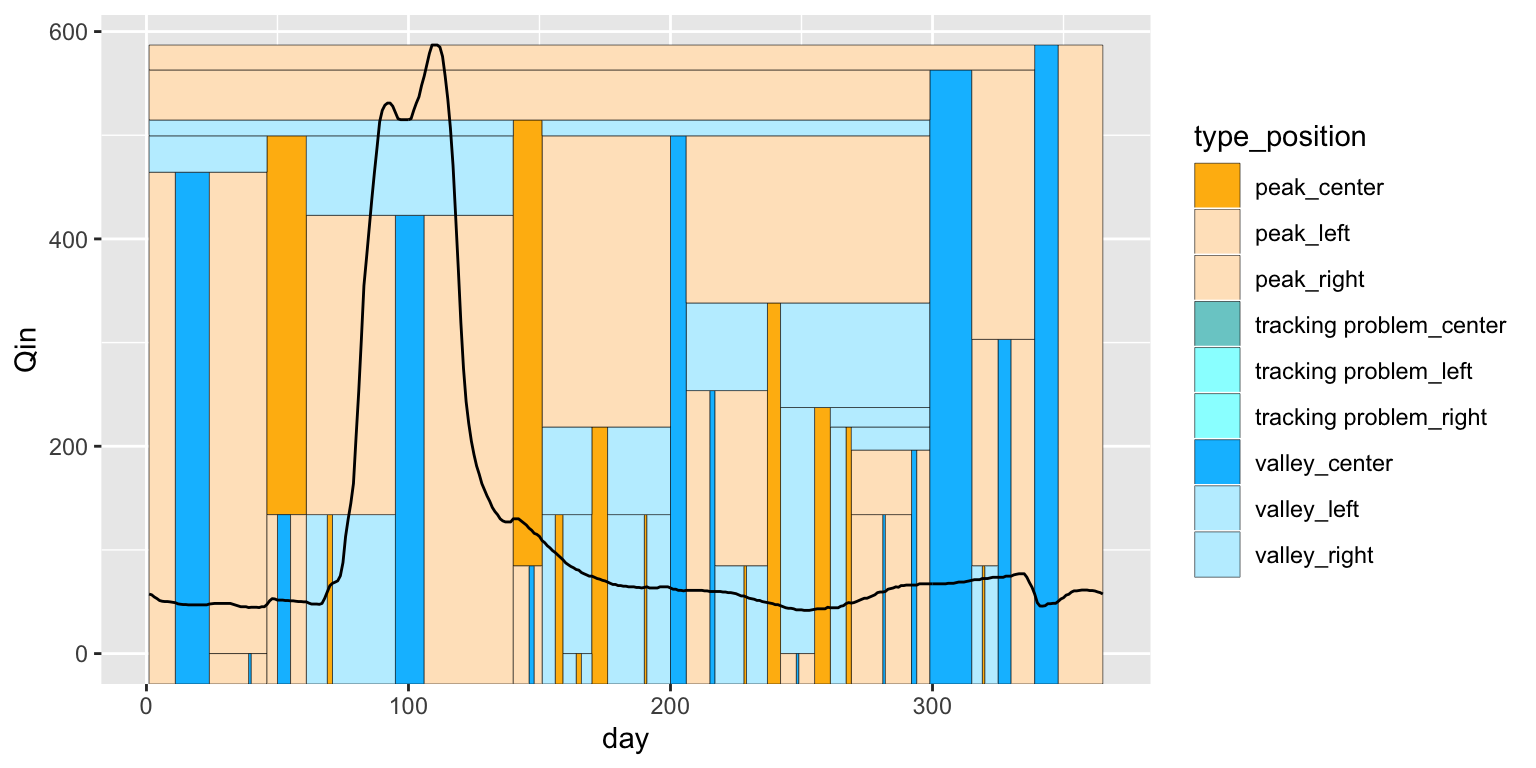
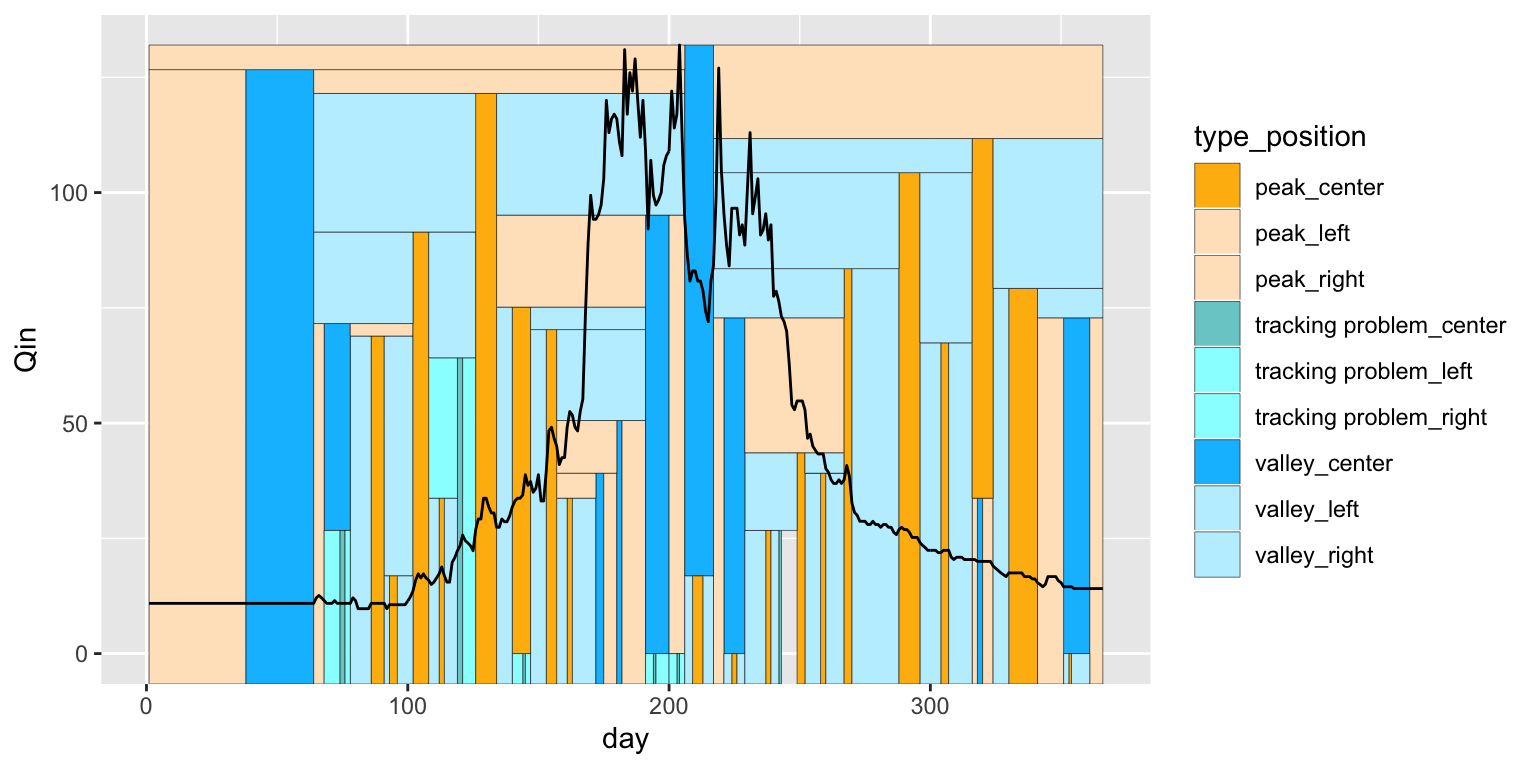
finalize scale space vignette

diff --git a/docs/articles/scale-space.html b/docs/articles/scale-space.html
@@ -103,35 +103,44 @@
 <span id="cb1-3"><a href="#cb1-3"></a><span class="co">#&gt; Загрузка требуемого пакета: ggplot2</span></span>
 <span id="cb1-4"><a href="#cb1-4"></a><span class="co">#&gt; Welcome to grwat package for hydrograph separation and analysis</span></span>
 <span id="cb1-5"><a href="#cb1-5"></a></span>
-<span id="cb1-6"><a href="#cb1-6"></a>tab =<span class="st"> </span><span class="kw"><a href="../reference/read_separation.html">read_separation</a></span>(<span class="st">'/Volumes/Work/_grwat/2018/out/1_Sever/Mezen_Malonisog/AllGrWat.txt'</span>)</span>
-<span id="cb1-7"><a href="#cb1-7"></a>(<span class="dt">ssp =</span> <span class="kw"><a href="../reference/ss_transform.html">ss_transform</a></span>(tab, <span class="dt">year =</span> <span class="dv">1978</span>, <span class="dt">sigma =</span> <span class="dv">365</span>))</span>
+<span id="cb1-6"><a href="#cb1-6"></a>tab =<span class="st"> </span><span class="kw"><a href="../reference/read_separation.html">read_separation</a></span>(<span class="st">'/Volumes/Work/_grwat/2018/in/6_Terek/Baksan/AllGrWat.txt'</span>)</span>
+<span id="cb1-7"><a href="#cb1-7"></a>(<span class="dt">sst =</span> <span class="kw"><a href="../reference/ss_transform.html">ss_transform</a></span>(tab, <span class="dt">year =</span> <span class="dv">2016</span>, <span class="dt">sigma =</span> <span class="dv">365</span>))</span>
 <span id="cb1-8"><a href="#cb1-8"></a><span class="co">#&gt; The viewpoint seems to be close to the start of the chromosome, please check if the data is correct</span></span>
 <span id="cb1-9"><a href="#cb1-9"></a><span class="co">#&gt; 4C-seq scale space data</span></span>
 <span id="cb1-10"><a href="#cb1-10"></a><span class="co">#&gt; Type: Scale4C </span></span>
-<span id="cb1-11"><a href="#cb1-11"></a><span class="co">#&gt; Viewpoint:  1978 : 1 </span></span>
-<span id="cb1-12"><a href="#cb1-12"></a><span class="co">#&gt; Number of total fragments:  365 </span></span>
+<span id="cb1-11"><a href="#cb1-11"></a><span class="co">#&gt; Viewpoint:  2016 : 1 </span></span>
+<span id="cb1-12"><a href="#cb1-12"></a><span class="co">#&gt; Number of total fragments:  366 </span></span>
 <span id="cb1-13"><a href="#cb1-13"></a><span class="co">#&gt; Points of interest:  0 </span></span>
 <span id="cb1-14"><a href="#cb1-14"></a><span class="co">#&gt; Maximum sigma of fingerprint map:  365 </span></span>
-<span id="cb1-15"><a href="#cb1-15"></a><span class="co">#&gt; Number of singularities:  28</span></span></code></pre></div>
+<span id="cb1-15"><a href="#cb1-15"></a><span class="co">#&gt; Number of singularities:  34</span></span></code></pre></div>
 <p><strong>Second</strong>, use <code><a href="../reference/ss_tree.html">grwat::ss_tree()</a></code> to obtain a scale-space tree as a <code>tibble</code> object suited for visualization and analysis:</p>
-<div class="sourceCode" id="cb2"><pre class="sourceCode r"><code class="sourceCode r"><span id="cb2-1"><a href="#cb2-1"></a>(<span class="dt">tree =</span> <span class="kw"><a href="../reference/ss_tree.html">ss_tree</a></span>(ssp))</span>
-<span id="cb2-2"><a href="#cb2-2"></a><span class="co">#&gt; # A tibble: 168 x 8</span></span>
+<div class="sourceCode" id="cb2"><pre class="sourceCode r"><code class="sourceCode r"><span id="cb2-1"><a href="#cb2-1"></a>(<span class="dt">tree =</span> <span class="kw"><a href="../reference/ss_tree.html">ss_tree</a></span>(sst))</span>
+<span id="cb2-2"><a href="#cb2-2"></a><span class="co">#&gt; # A tibble: 204 x 8</span></span>
 <span id="cb2-3"><a href="#cb2-3"></a><span class="co">#&gt;       id position idrect   type           type_position          day  smin  smax</span></span>
 <span id="cb2-4"><a href="#cb2-4"></a><span class="co">#&gt;  * &lt;int&gt; &lt;chr&gt;    &lt;chr&gt;    &lt;chr&gt;          &lt;chr&gt;                &lt;dbl&gt; &lt;dbl&gt; &lt;dbl&gt;</span></span>
-<span id="cb2-5"><a href="#cb2-5"></a><span class="co">#&gt;  1     1 left     1_left   tracking prob… tracking problem_le…    24     0     1</span></span>
-<span id="cb2-6"><a href="#cb2-6"></a><span class="co">#&gt;  2     1 left     1_left   tracking prob… tracking problem_le…    34     0     1</span></span>
-<span id="cb2-7"><a href="#cb2-7"></a><span class="co">#&gt;  3     1 center   1_center tracking prob… tracking problem_ce…    34     0     1</span></span>
-<span id="cb2-8"><a href="#cb2-8"></a><span class="co">#&gt;  4     1 center   1_center tracking prob… tracking problem_ce…    36     0     1</span></span>
-<span id="cb2-9"><a href="#cb2-9"></a><span class="co">#&gt;  5     1 right    1_right  tracking prob… tracking problem_ri…    36     0     1</span></span>
-<span id="cb2-10"><a href="#cb2-10"></a><span class="co">#&gt;  6     1 right    1_right  tracking prob… tracking problem_ri…    46     0     1</span></span>
-<span id="cb2-11"><a href="#cb2-11"></a><span class="co">#&gt;  7     2 left     2_left   valley         valley_left             24     0     1</span></span>
-<span id="cb2-12"><a href="#cb2-12"></a><span class="co">#&gt;  8     2 left     2_left   valley         valley_left             37     0     1</span></span>
-<span id="cb2-13"><a href="#cb2-13"></a><span class="co">#&gt;  9     2 center   2_center peak           peak_center             37     0     1</span></span>
-<span id="cb2-14"><a href="#cb2-14"></a><span class="co">#&gt; 10     2 center   2_center peak           peak_center             39     0     1</span></span>
-<span id="cb2-15"><a href="#cb2-15"></a><span class="co">#&gt; # … with 158 more rows</span></span></code></pre></div>
+<span id="cb2-5"><a href="#cb2-5"></a><span class="co">#&gt;  1     1 left     1_left   tracking prob… tracking problem_le…   140     0     1</span></span>
+<span id="cb2-6"><a href="#cb2-6"></a><span class="co">#&gt;  2     1 left     1_left   tracking prob… tracking problem_le…   144     0     1</span></span>
+<span id="cb2-7"><a href="#cb2-7"></a><span class="co">#&gt;  3     1 center   1_center tracking prob… tracking problem_ce…   144     0     1</span></span>
+<span id="cb2-8"><a href="#cb2-8"></a><span class="co">#&gt;  4     1 center   1_center tracking prob… tracking problem_ce…   145     0     1</span></span>
+<span id="cb2-9"><a href="#cb2-9"></a><span class="co">#&gt;  5     1 right    1_right  tracking prob… tracking problem_ri…   145     0     1</span></span>
+<span id="cb2-10"><a href="#cb2-10"></a><span class="co">#&gt;  6     1 right    1_right  tracking prob… tracking problem_ri…   147     0     1</span></span>
+<span id="cb2-11"><a href="#cb2-11"></a><span class="co">#&gt;  7     2 left     2_left   tracking prob… tracking problem_le…   191     0     1</span></span>
+<span id="cb2-12"><a href="#cb2-12"></a><span class="co">#&gt;  8     2 left     2_left   tracking prob… tracking problem_le…   194     0     1</span></span>
+<span id="cb2-13"><a href="#cb2-13"></a><span class="co">#&gt;  9     2 center   2_center tracking prob… tracking problem_ce…   194     0     1</span></span>
+<span id="cb2-14"><a href="#cb2-14"></a><span class="co">#&gt; 10     2 center   2_center tracking prob… tracking problem_ce…   195     0     1</span></span>
+<span id="cb2-15"><a href="#cb2-15"></a><span class="co">#&gt; # … with 194 more rows</span></span></code></pre></div>
 <p><strong>Third</strong>, use <code><a href="../reference/plot_ss.html">grwat::plot_ss()</a></code> to plot resulting scale-space tree over the initial hydrograph:</p>
-<div class="sourceCode" id="cb3"><pre class="sourceCode r"><code class="sourceCode r"><span id="cb3-1"><a href="#cb3-1"></a><span class="kw"><a href="../reference/plot_ss.html">plot_ss</a></span>(tree, tab, <span class="dt">year =</span> <span class="dv">1978</span>)</span></code></pre></div>
+<div class="sourceCode" id="cb3"><pre class="sourceCode r"><code class="sourceCode r"><span id="cb3-1"><a href="#cb3-1"></a><span class="kw"><a href="../reference/plot_ss.html">plot_ss</a></span>(tree, tab, <span class="dt">year =</span> <span class="dv">2016</span>)</span></code></pre></div>
 <p><img src="scale-space_files/figure-html/unnamed-chunk-3-1.png" width="768"></p>
+<p>To <em>inverse</em> the scale space tesselation on <em>Y</em> axis, set <code>inverse = TRUE</code>:</p>
+<div class="sourceCode" id="cb4"><pre class="sourceCode r"><code class="sourceCode r"><span id="cb4-1"><a href="#cb4-1"></a><span class="kw"><a href="../reference/plot_ss.html">plot_ss</a></span>(tree, tab, <span class="dt">year =</span> <span class="dv">2016</span>, <span class="dt">inverse =</span> <span class="ot">TRUE</span>)</span></code></pre></div>
+<p><img src="scale-space_files/figure-html/unnamed-chunk-4-1.png" width="768"></p>
+<p>It is possible to plot scale space tesselation <em>without hydrograph</em>. Just omit <code>df</code> and <code>year</code> parameters in your call:</p>
+<div class="sourceCode" id="cb5"><pre class="sourceCode r"><code class="sourceCode r"><span id="cb5-1"><a href="#cb5-1"></a><span class="kw"><a href="../reference/plot_ss.html">plot_ss</a></span>(tree)</span></code></pre></div>
+<p><img src="scale-space_files/figure-html/unnamed-chunk-5-1.png" width="768"></p>
+<p>You can also plot a <strong>fingerprint map</strong> from which a scale space tesselation was traced back, using <code><a href="https://rdrr.io/pkg/Scale4C/man/plotTraceback.html">Scale4C::plotTraceback()</a></code> (set <code>fileName = ""</code> to force plotting on screen device instead of a file):</p>
+<div class="sourceCode" id="cb6"><pre class="sourceCode r"><code class="sourceCode r"><span id="cb6-1"><a href="#cb6-1"></a>Scale4C<span class="op">::</span><span class="kw"><a href="https://rdrr.io/pkg/Scale4C/man/plotTraceback.html">plotTraceback</a></span>(sst, <span class="dt">fileName =</span> <span class="st">""</span>)</span></code></pre></div>
+<p><img src="scale-space_files/figure-html/unnamed-chunk-6-1.png" width="768"></p>
 </div>
 <div id="references" class="section level2 unnumbered">
 <h2 class="hasAnchor">
